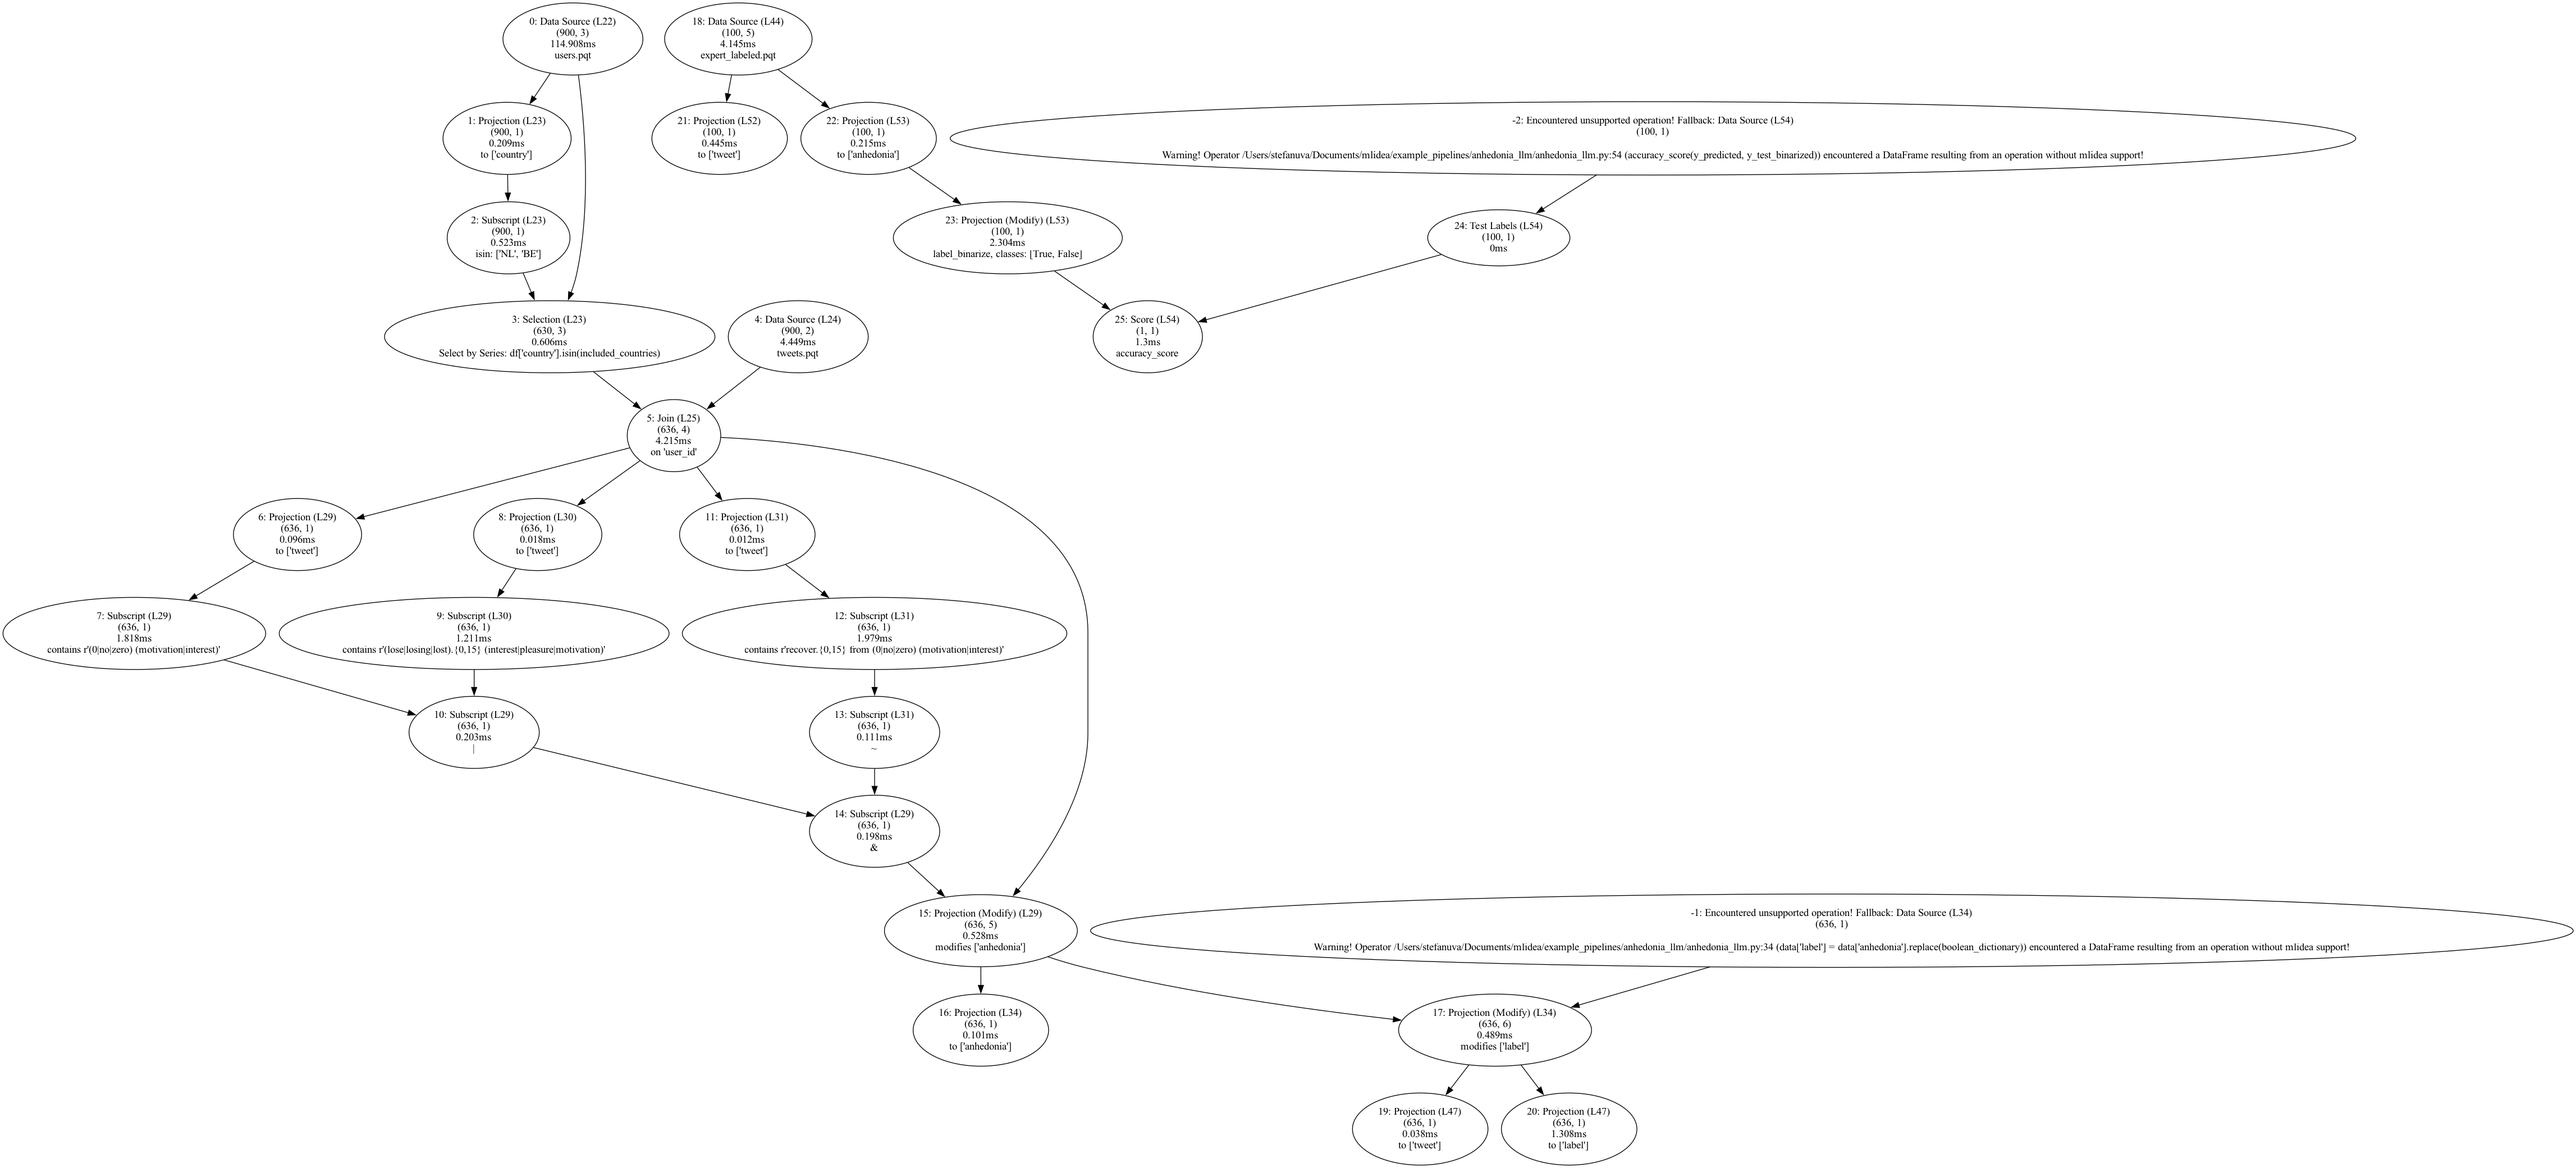
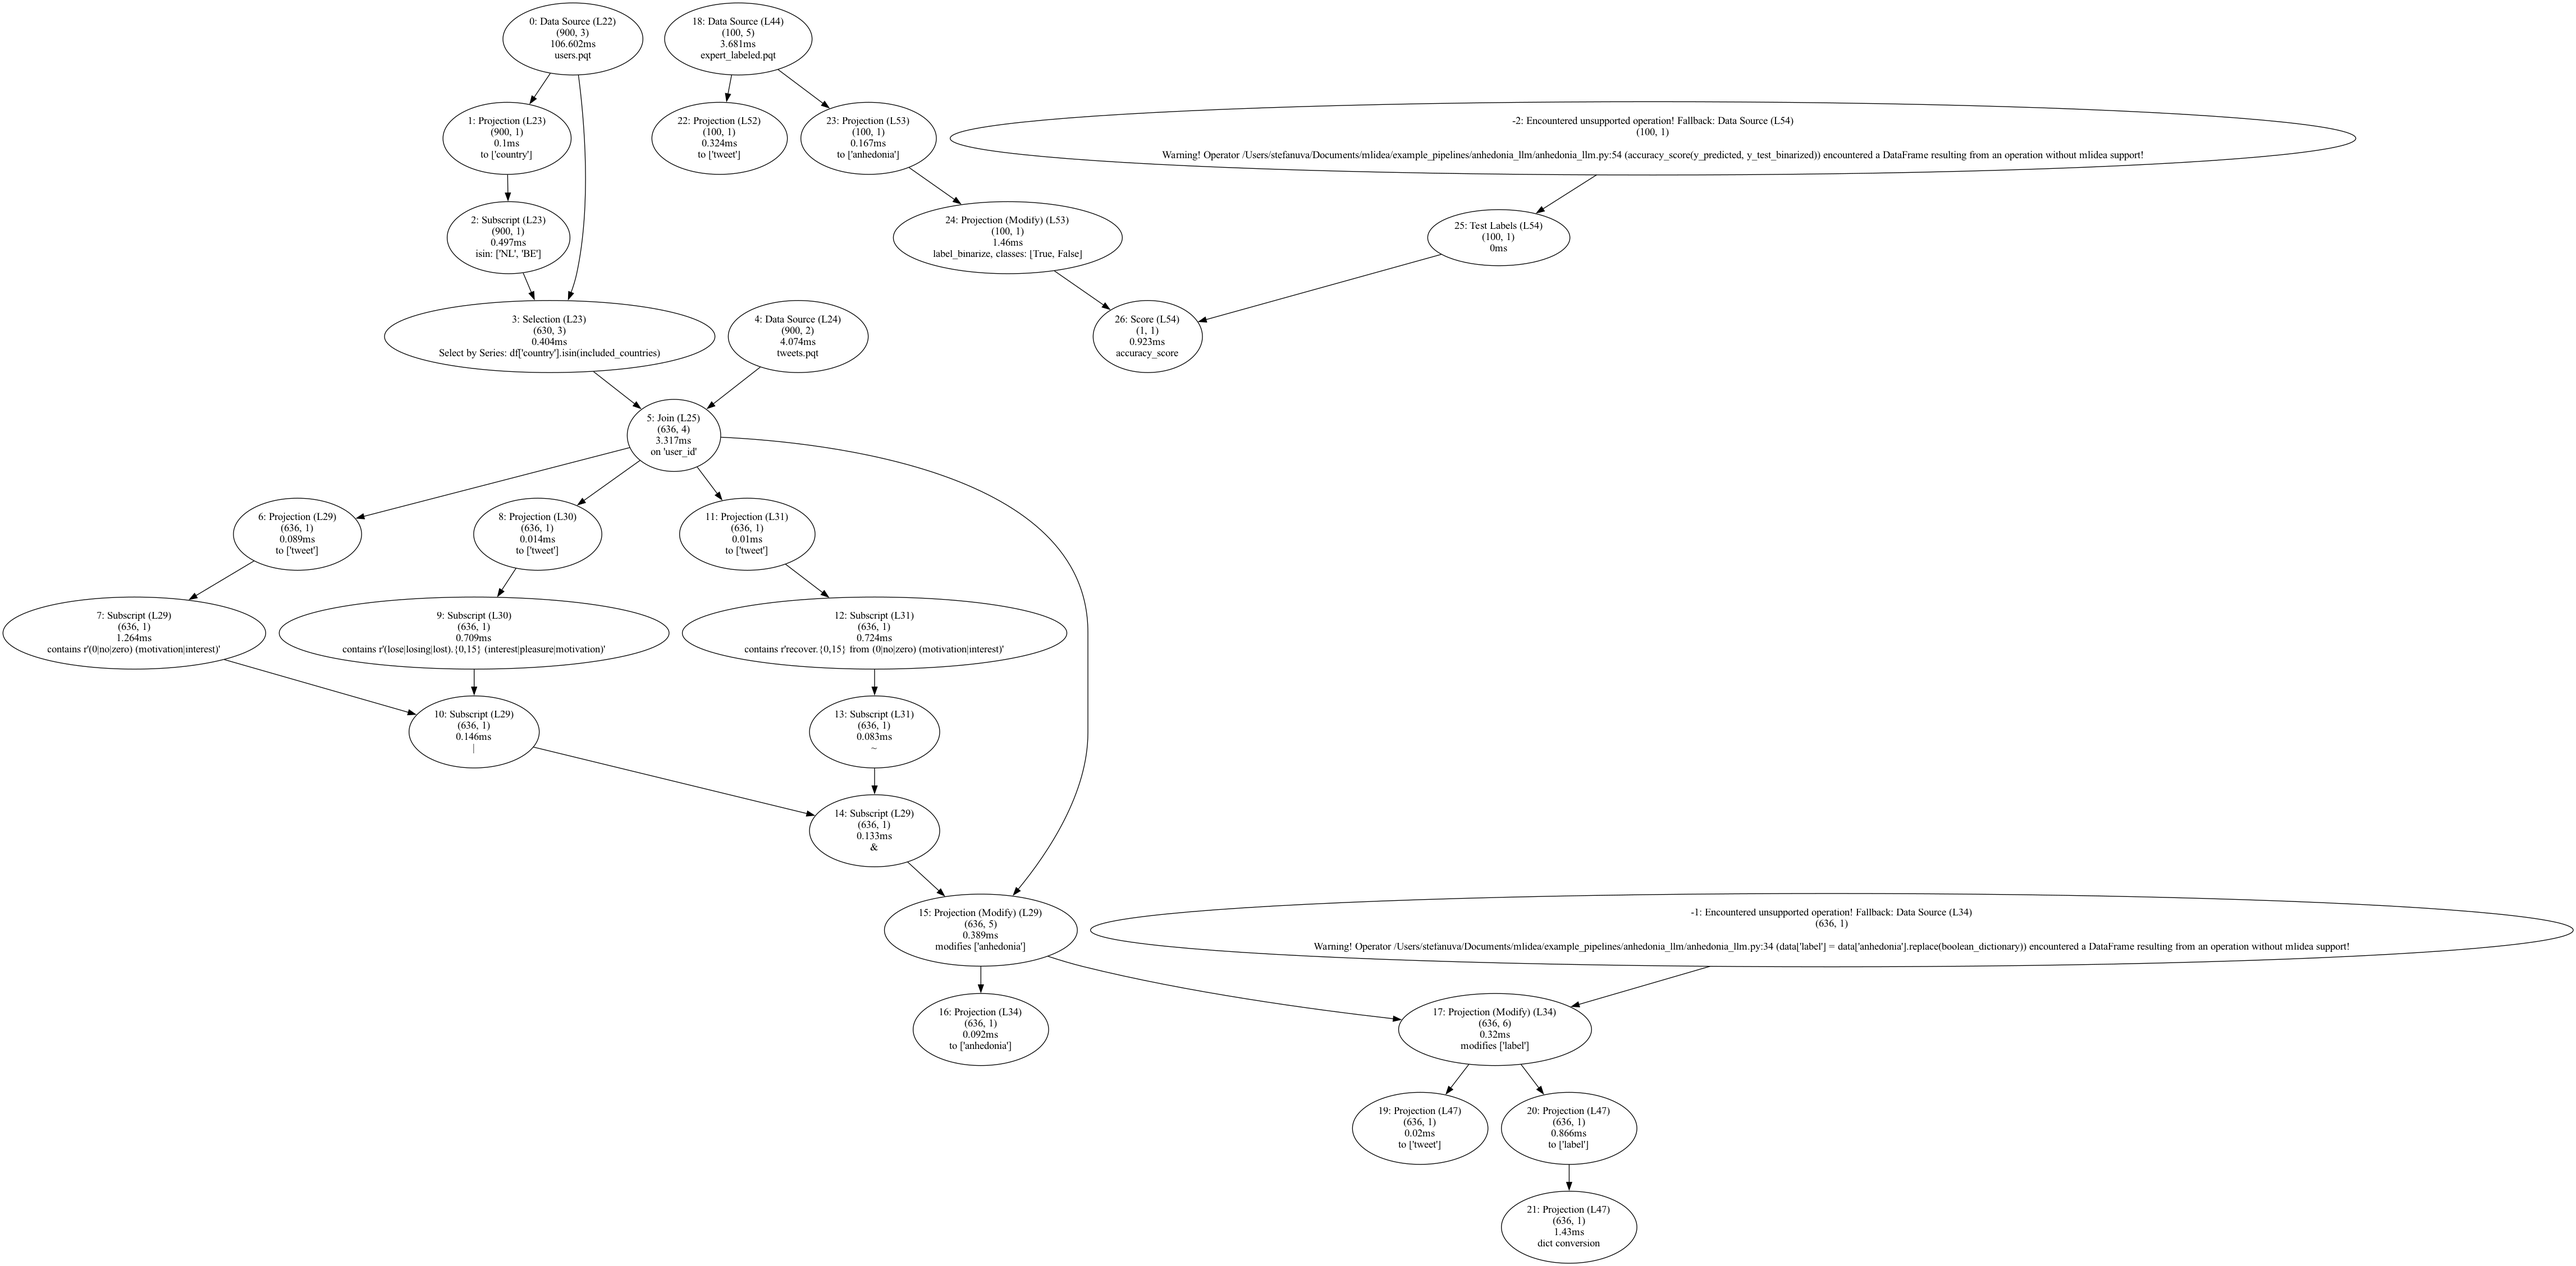
Progress: to_dict is now fully supported, LLM pipeline executes again. TODO: LLM DAG nodes

diff --git a/test/monkeypatching/test_patch_pandas.py b/test/monkeypatching/test_patch_pandas.py
@@ -767,7 +767,7 @@ def test_groupby_agg():
     pandas.testing.assert_frame_equal(df_groupby_agg.reset_index(drop=False), df_expected.reset_index(drop=True))
 
 
-def test_to_dict():
+def test_to_dict_default():
     """
     Tests whether the monkey patching of ('pandas.core.frame', 'to_dict') works.
     """
@@ -797,7 +797,7 @@ def test_to_dict():
                                                    FunctionInfo('pandas.core.frame', 'to_dict')),
                                    DagNodeDetails("dict conversion",
                                                   ['group', 'value'],
-                                                  OptimizerInfo(RangeComparison(0, 1000), (3, 2),
+                                                  OptimizerInfo(RangeComparison(0, 1000), (5, 2),
                                                                 RangeComparison(0, 800))),
                                    OptionalCodeInfo(CodeReference(4, 10, 4, 22), "df.to_dict()"),
                                    Comparison(FunctionType))
@@ -811,6 +811,52 @@ def test_to_dict():
     assert len(list(df_dict.values())[0]) == 4
     assert df_dict["A"][0] == 'A'
     assert df_dict["B"][2] == 7
+
+
+def test_to_dict_records():
+    """
+    Tests whether the monkey patching of ('pandas.core.frame', 'to_dict') works.
+    """
+    test_code = cleandoc("""
+        import pandas as pd
+
+        df = pd.DataFrame({'group': ['A', 'B', 'A', 'C', 'B'], 'value': [1, 2, 1, 3, 4]})
+        df_list = df.to_dict("records")
+        assert len(df_list) == 5
+        assert df_list._mlinspect_dag_node >= 1
+        """)
+    inspector_result = _pipeline_executor.singleton.run(python_code=test_code, track_code_references=True)
+
+    expected_dag = networkx.DiGraph()
+    expected_data = DagNode(0,
+                            BasicCodeLocation("<string-source>", 3),
+                            OperatorContext(OperatorType.DATA_SOURCE, FunctionInfo('pandas.core.frame', 'DataFrame')),
+                            DagNodeDetails(None, ['group', 'value'], OptimizerInfo(RangeComparison(0, 200), (5, 2),
+                                                                                   RangeComparison(0, 800))),
+                            OptionalCodeInfo(CodeReference(3, 5, 3, 81),
+                                             "pd.DataFrame({'group': ['A', 'B', 'A', 'C', 'B'], "
+                                             "'value': [1, 2, 1, 3, 4]})"),
+                            Comparison(partial))
+    expected_groupby_agg = DagNode(1,
+                                   BasicCodeLocation("<string-source>", 4),
+                                   OperatorContext(OperatorType.PROJECTION,
+                                                   FunctionInfo('pandas.core.frame', 'to_dict')),
+                                   DagNodeDetails("dict conversion",
+                                                  ['group', 'value'],
+                                                  OptimizerInfo(RangeComparison(0, 1000), (5, 2),
+                                                                RangeComparison(0, 800))),
+                                   OptionalCodeInfo(CodeReference(4, 10, 4, 31), """df.to_dict("records")"""),
+                                   Comparison(FunctionType))
+    expected_dag.add_edge(expected_data, expected_groupby_agg, arg_index=0)
+    compare(networkx.to_dict_of_dicts(inspector_result.original_dag), networkx.to_dict_of_dicts(expected_dag))
+
+    pandas_df = pandas.DataFrame({'A': ['A', 'B', 'A', 'B'], 'B': [1, 2, 7, 4]})
+    extracted_node_groupby_agg = list(inspector_result.original_dag.nodes)[1]
+    df_list = extracted_node_groupby_agg.processing_func(pandas_df)
+    assert len(df_list) == 4
+    assert len(df_list[0]) == 2
+    assert df_list[0]["A"] == 'A'
+    assert df_list[2]["B"] == 7
 
 
 def test_series__init__():

diff --git a/mlidea/monkeypatching/_patch_pandas.py b/mlidea/monkeypatching/_patch_pandas.py
@@ -498,10 +498,10 @@ class DataFramePatching:
 
     @gorilla.name('to_dict')
     @gorilla.settings(allow_hit=True)
-    def patched_to_dict(self, *args, **kwargs):
+    def patched_to_dict(self, orient='dict', into=dict, **kwargs):
         """ Patch for ('pandas.core.frame', 'to_dict') """
         original = gorilla.get_original_attribute(pandas.DataFrame, 'to_dict')
-        func_args = kwargs
+        func_args = {'orient': orient, 'into': into, **kwargs}
 
         def execute_inspections(op_id, caller_filename, lineno, optional_code_reference, optional_source_code):
             """ Execute inspections, add DAG node """
@@ -510,13 +510,21 @@ class DataFramePatching:
                                         optional_source_code)
             operator_context = OperatorContext(OperatorType.PROJECTION, function_info)
             description = "dict conversion"
-            processing_func = lambda df: original(df, *args, **kwargs)
+            processing_func = lambda df: original(df, **func_args)
             initial_func = partial(original, input_info.annotated_dfobject.result_data, **func_args)
             optimizer_info, result = capture_optimizer_info(initial_func)
+
+            if isinstance(result, dict) and isinstance(list(result.values())[0], dict):
+                columns = list(result.keys())
+            elif isinstance(result, list) and isinstance(result[0], dict):
+                columns = list(result[0].keys())
+            else:
+                raise NotImplementedError("TODO: Support all to_dict output formats if ever needed")
+
             dag_node = DagNode(op_id,
                                BasicCodeLocation(caller_filename, lineno),
                                operator_context,
-                               DagNodeDetails(description, list(result.keys()), optimizer_info),
+                               DagNodeDetails(description, columns, optimizer_info),
                                get_optional_code_info_or_none(optional_code_reference, optional_source_code),
                                processing_func)
             function_call_result = FunctionCallResult(result)

diff --git a/mlidea/execution/_stat_tracking.py b/mlidea/execution/_stat_tracking.py
@@ -126,6 +126,8 @@ def get_df_shape(result_or_inplace_obj):
             shape = (len(result_or_inplace_obj), 1)
         elif isinstance(result_or_inplace_obj[0], numpy.ndarray) and result_or_inplace_obj[0].ndim == 1:
             shape = (len(result_or_inplace_obj), len(result_or_inplace_obj[0]))
+        elif isinstance(result_or_inplace_obj, list) and isinstance(result_or_inplace_obj[0], dict):
+            shape = (len(result_or_inplace_obj), len(list(result_or_inplace_obj[0].keys())))
         elif isinstance(result_or_inplace_obj, list) and not isinstance(result_or_inplace_obj[0],
                                                                            (list, numpy.ndarray)):
             shape = (len(result_or_inplace_obj), 1)
